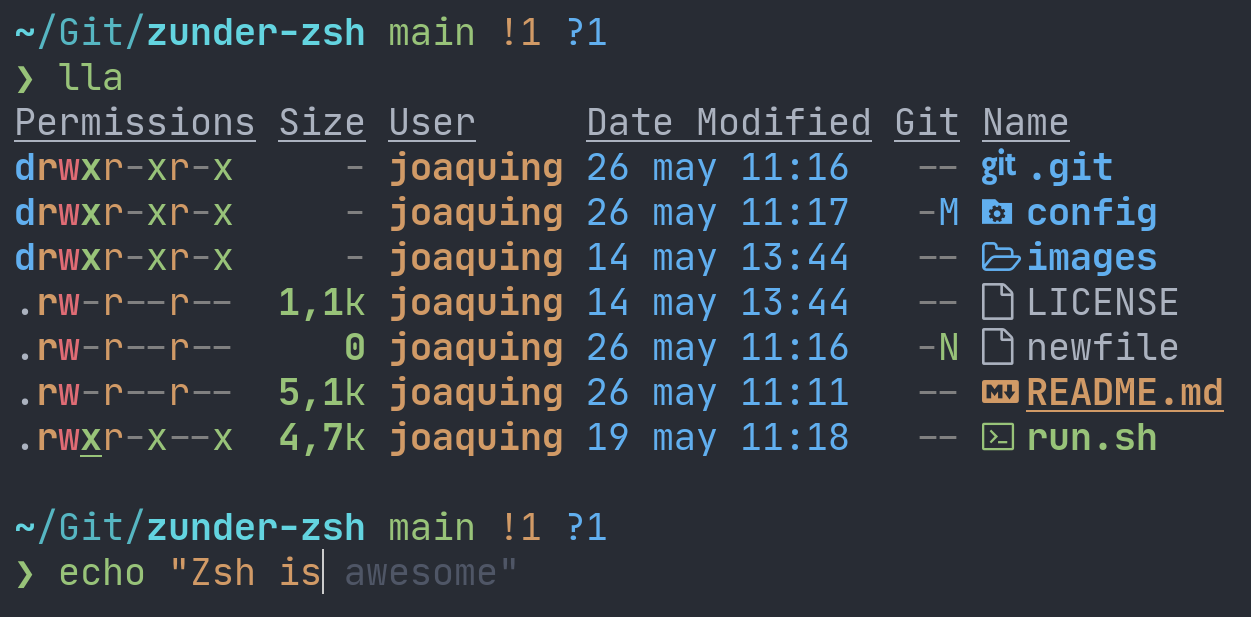
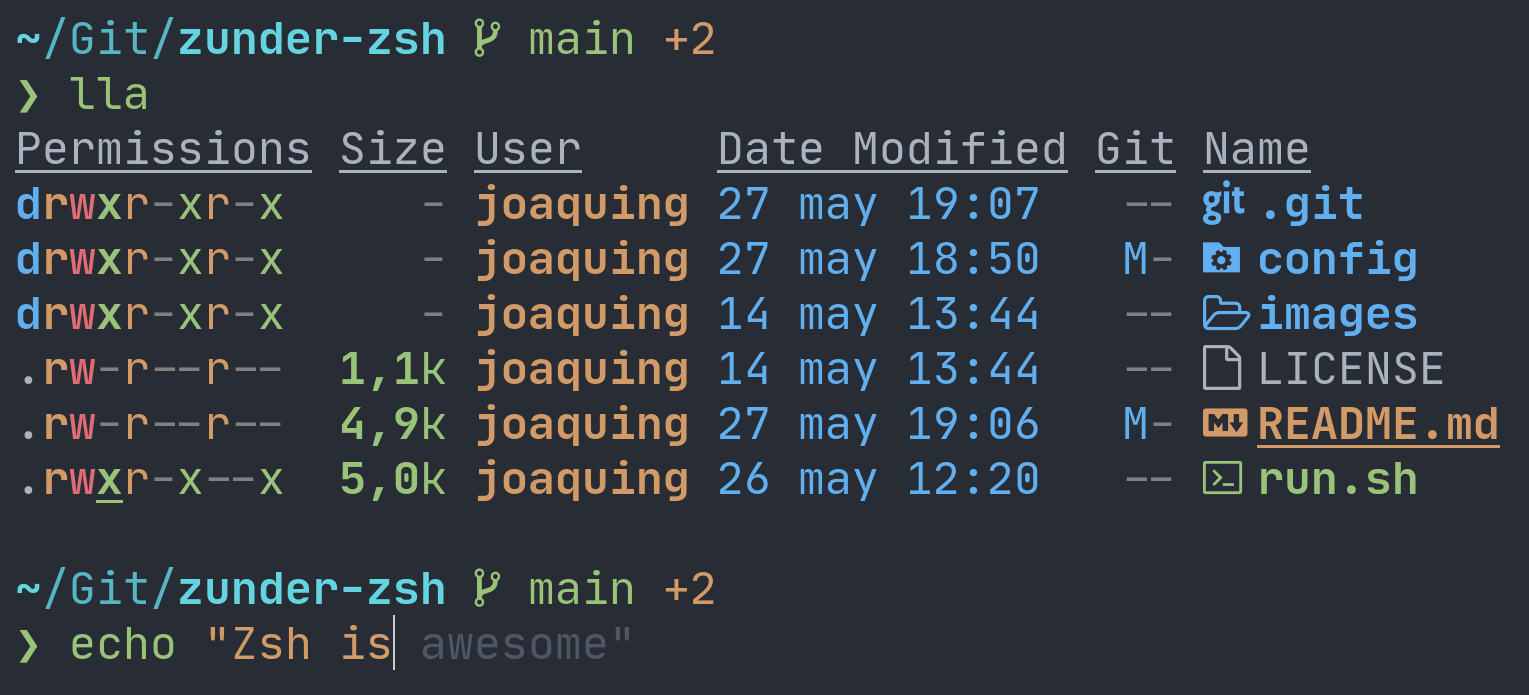
Better fzf integration and removed bd-zsh

Changed region(s): [[0.0, 0.0308, 0.9976, 0.7391], [0.0, 0.8006, 0.4988, 0.9546]]

diff --git a/README.md b/README.md
@@ -19,7 +19,7 @@ plugins and themes. Check out [Zinit](https://github.com/zdharma-continuum/zinit
 - Powerful and lag-free prompt thanks to [Powerlevel10k](https://github.com/romkatv/powerlevel10k).
 - Replaces the `ls` command with [exa](https://github.com/ogham/exa) 
 ([not on Android](https://github.com/Warbacon/zunder-zsh/issues/1#issuecomment-1121312633)).
-- [Fzf](https://github.com/junegunn/fzf) integration.
+- [Fzf](https://github.com/junegunn/fzf) integration. Try using ALT+C, CTRL+T and CTRL+R.
 - Fish-like autosuggestions and syntax highlighting. 
 - Bash-like key bindings.
 - Some useful aliases.
@@ -51,11 +51,8 @@ executed commands.
 - [zsh-completions](https://github.com/zsh-users/zsh-completions) - smarter command completions.
 - [zsh-autopair](https://github.com/hlissner/zsh-autopair) - automatically close parentheses,
 quotes and more.
-- [bd-zsh](https://github.com/Tarrasch/zsh-bd) - use the ```bd``` command to go back to a directory.
 - [sudo](https://github.com/ohmyzsh/ohmyzsh/tree/master/plugins/sudo) plugin from Oh My Zsh -
 press the Esc key twice to put ```sudo``` at the beginning.
-- [fzf](https://github.com/ohmyzsh/ohmyzsh/tree/master/plugins/fzf) plugin from Oh My Zsh -
-try using ALT+C, CTRL+T and CTRL+R.
 
 ### Supported operating systems:
 
